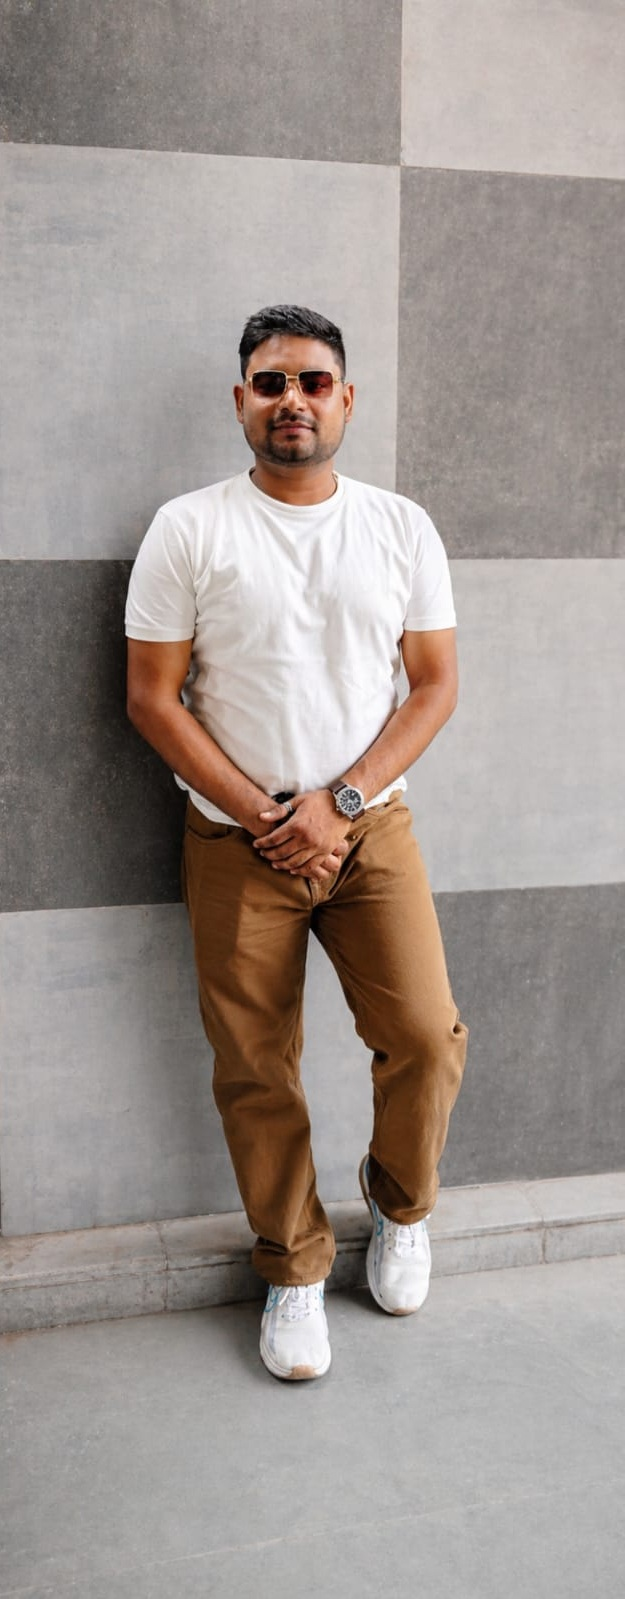
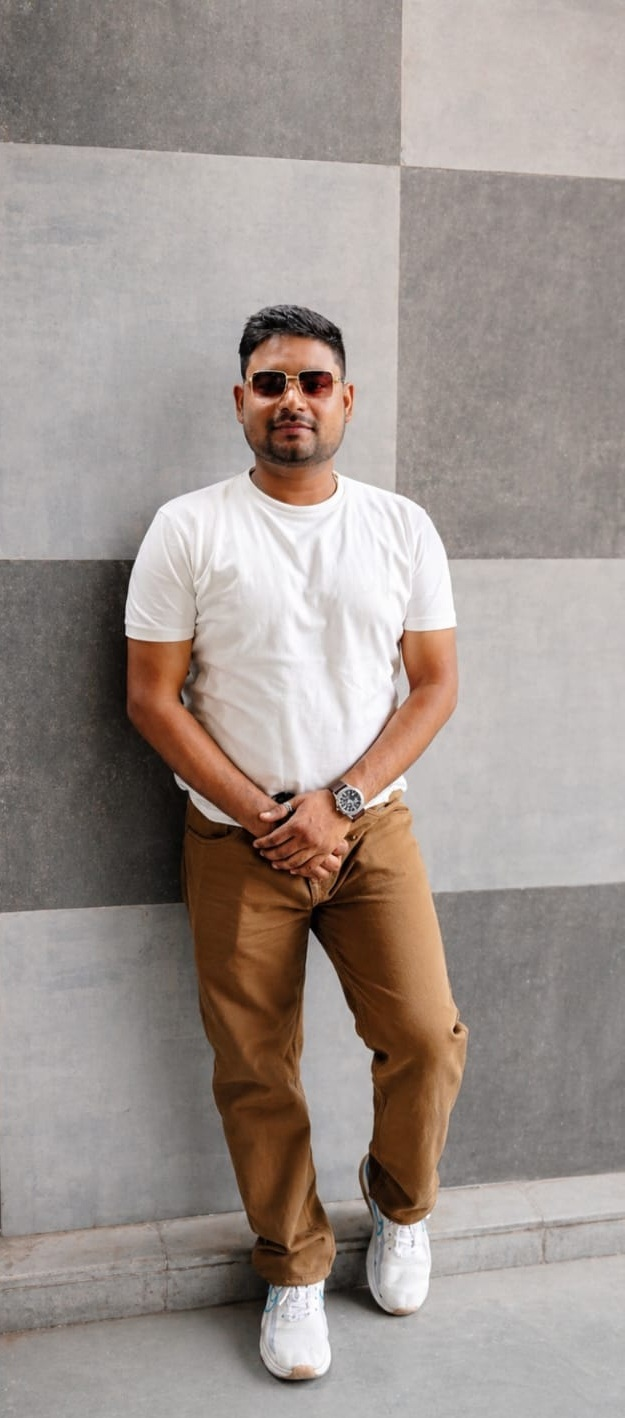
feat: add Hero section and styled About image component with associated assets

diff --git a/src/components/about/AboutImage.jsx b/src/components/about/AboutImage.jsx
@@ -6,11 +6,11 @@ function AboutImage() {
       className="
         relative
         w-[280px]
-        h-[420px]
+        h-[390px]
         sm:w-[320px]
-        sm:h-[480px]
+        sm:h-[450px]
         lg:w-[360px]
-        lg:h-[540px]
+        lg:h-[500px]
         flex
         items-center
         justify-center
@@ -61,11 +61,11 @@ function AboutImage() {
         className="
           relative
           w-[272px]
-          h-[412px]
+          h-[382px]
           sm:w-[312px]
-          sm:h-[472px]
+          sm:h-[442px]
           lg:w-[352px]
-          lg:h-[532px]
+          lg:h-[492px]
           rounded-[32px]
           p-[3px]
           overflow-hidden
@@ -78,21 +78,21 @@ function AboutImage() {
 
         <div
           className="
-    w-full
-    h-full
-    rounded-[30px]
-    overflow-hidden
-    bg-[#0B1120]
-  "
+            w-full
+            h-full
+            rounded-[30px]
+            overflow-hidden
+            bg-[#0B1120]
+          "
         >
           <img
             src={aboutImage}
             alt="About"
             className="
-      w-full
-      h-full
-      object-contain
-    "
+              w-full
+              h-full
+              object-cover
+            "
           />
         </div>
       </div>

diff --git a/src/components/hero/Hero.jsx b/src/components/hero/Hero.jsx
@@ -45,7 +45,7 @@ function Hero() {
 
         <p className="mt-6 max-w-xl text-slate-400 leading-8">
           Passionate Frontend Developer and IT Trainer with experience in
-          React, WordPress, JavaScript, PHP and modern web technologies.
+          React, MySQL, JavaScript, PHP and modern web technologies.
           I love creating beautiful, responsive and user-friendly websites.
         </p>
 
